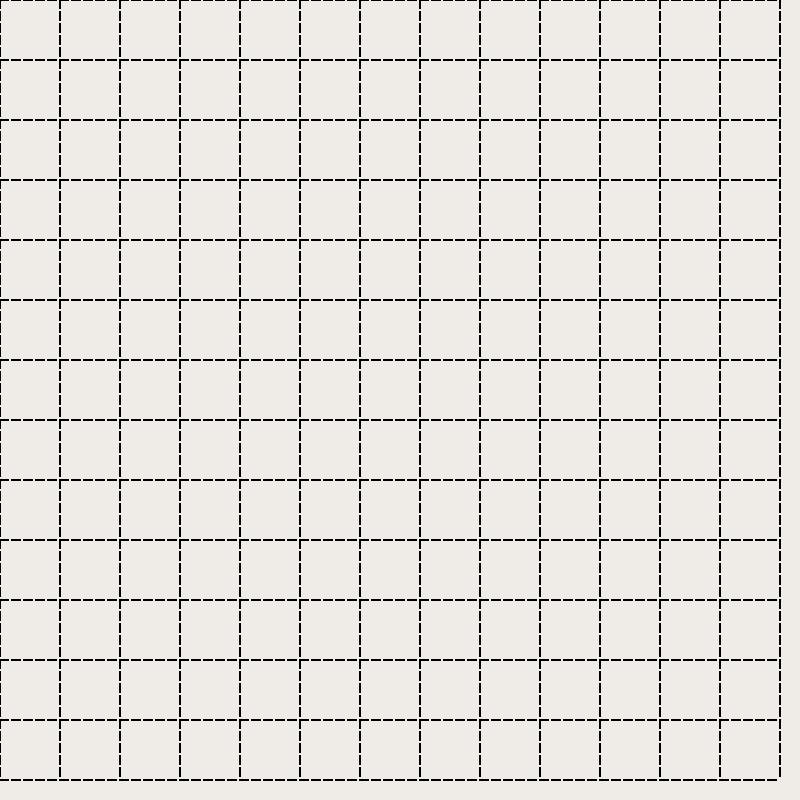
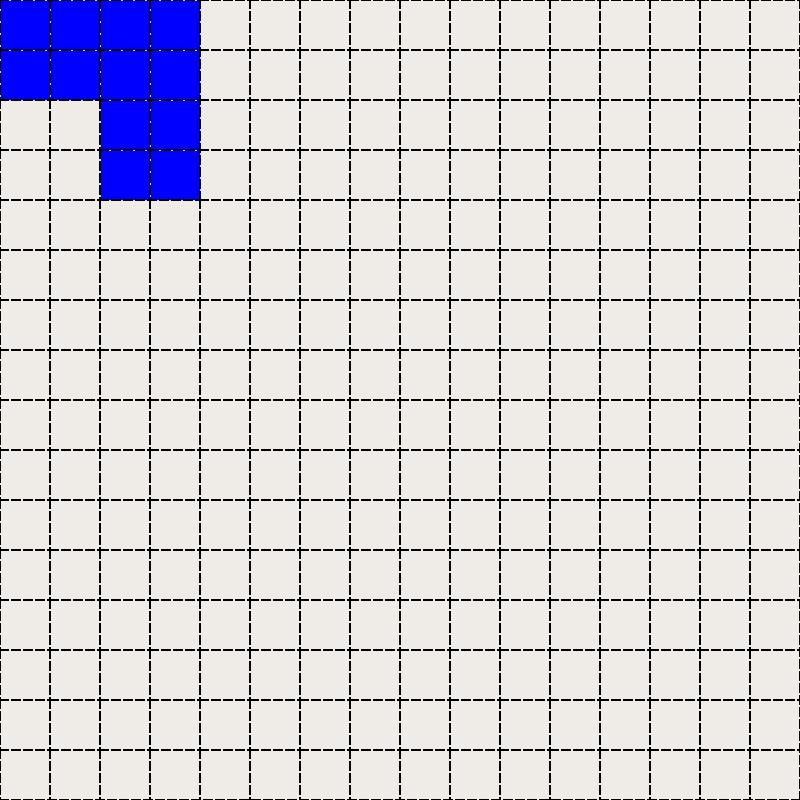
huge update

Changed region(s): [[0.0, 0.0, 1.0, 1.0]]

diff --git a/mapb.py b/mapb.py
@@ -9,25 +9,38 @@ sql=Connect("char.db")
 sql.CreateDb("(nomechar VARCHAR(100), nomepessoa VARCHAR(20),vida INT, loucura INT,str INT,int INT,sab INT,dex INT,perk INT, pb INT)","char")
 sql.CreateDb("(nomechar VARCHAR(100), habilidade VARCHAR(20),dhabilidade VARCHAR(2000),tipo VARCHAR(20))","habilidade")
 sql.CreateDb("(nomechar VARCHAR(100),item VARCHAR(20), dano VARCHAR(20),atributo VARCHAR(20),tipo VARCHAR(20),mod VARCHAR(20))","item")
-sql=Connect("mapa.db")
-sql.CreateDb("(nomeobj VARCHAR(100),i INT,j INT,x INT,y INT,cc INT,color VARCHAR(100))","obmapa")
+sql2=Connect("mapa.db")
+sql2.CreateDb("(mapa VARCHAR(100),nomeobj VARCHAR(100),i INT,j INT,x INT,y INT,cc INT,color VARCHAR(100))","obmapa")
+sql2.CreateDb("(mapa VARCHAR(100),x INT,y INT,w INT,a INT,n INT)","mapa")
 while True:
     try:
         global dist
         global cc
-        global color 
+        global color
+        global nmap
+        global p
         x.Response("getUpdates")
         x.Chat()
         print(x.text)
         if "/smap"  in x.cmd:
-            comands=x.cmd[1].split()
-            we=int(comands[0])
-            hei=int(comands[1])
-            dist=int(comands[2])
-
-            p=drawmap(0,0,we,hei,"mapa")
-            p.draw(int(we/dist),int(hei/dist),dist,0,0)
-
+            comands=x.Paramch(x.cmd[1])
+            for n in comands:
+                if n[0]=="map":
+                    nmap=n[1]
+                    sql2.Select("mapa","*","WHERE mapa IN ('{0}')".format(nmap))
+                    o=sql2.Fetchone()
+                    xi=o[1]
+                    yi=o[2]
+                    we=o[3]
+                    hei=o[4]
+                    dist=o[5]
+                    print(o)
+            try:
+                del p
+                p=drawmap(xi,yi,we,hei,nmap)
+            except:
+                
+                p=drawmap(xi,yi,we,hei,nmap)
         if "/ddraw" in x.cmd:    
             comands=x.cmd[1].split()
             i=int(comands[0])
@@ -35,27 +48,67 @@ while True:
             xi=int(comands[2])
             yi=int(comands[3])
             color=comands[4]
-            p.cleardraw(i,j,40,xi,yi,1,color)
+            p.cleardraw(i,j,dist,xi,yi,1,color)
 
-        if "/draw" in x.cmd:    
-            comands=x.cmd[1].split()
-            i=int(comands[0])
-            j=int(comands[1])
-            xi=int(comands[2])
-            yi=int(comands[3])
-            color=comands[4]
-            p.draw(i,j,dist ,xi,yi,1,color)
+        if "/draw" in x.cmd:
+            try:
+                comands=x.Paramch(x.cmd[1])
+            except IndexError:
+                comands=['map',nmap]
+            for n in comands:
+                if n[0]=="map":
+                    nmap=n[1]
+
+
+            sql2.Select("mapa","*","WHERE mapa in ('{0}')".format(nmap))
+            o=sql2.Fetchone()
+            xi=o[1]
+            yi=o[2]
+            we=o[3]
+            hei=o[4]
+            dist=o[5]
+            print(o)
+            try:
+                del p
+                p=drawmap(xi,yi,we,hei,nmap)
+            except:
+                p=drawmap(xi,yi,we,hei,nmap)
+            p.clearmap()
+
+            p.draw(int(we/dist),inhei/dist),dist,0,0)        
+            sql2.Select("obmapa","*","WHERE mapa in ('{0}')".format(nmap))
+            for n in sql2.Fetchall():
+                p.draw(n[2],n[3],dist ,n[4],n[5],1,n[7])
+            p.TSS("map")
+
+            x.Sendfile("map",x.cid)
         if "/tts" in x.cmd:
             comands=x.cmd[1].split()
             prin=comands[0]
             p.TSS(prin)
             x.Sendfile(prin,x.cid)
         if "/cmap" in x.cmd:
-            comands=x.cmd[1].split()
-            p.clearmap()
+            comands=x.Paramch(x.cmd[1])
+            xi=0
+            yi=0
+            dist=50
+            hei=800
+            we=800
+            for n in comands:
+                if n[0]=="we":
+                    we=n[1]
+                elif n[0]=="map":
+                    nmap=n[1]
+                elif n[0] == "hei":
+                    hei=n[1]
+                elif n[0]== "dist":
+                    dist=n[1]
 
+            mapf="('{0}',{1},{2},{3},{4},{5})".format(nmap,xi,yi,we,hei,dist)
+            sql2.Insert(mapf,"mapa")
+            
         if "/croll" in x.cmd:
-           
+
             x.cSendmsg("user: {0}".format(x.firstname))
             x.roll(x.cmd,2)
             x.cSendmsg("dados finais:{0}".format(x.dados2))
@@ -130,7 +183,7 @@ while True:
                     pb=int(n[1])
                 else:
                     x.Sendmsg("parametro falso:")
-                print(x.Sendmsg(n))
+                x.Sendmsg(n)
             charf="('{0}','{1}','{2}','{3}',{4},{5},{6},{7},{8},{9})".format(char,player,vida,loucura,strn,intn,sab,dex,perk,pb)
             sql.Insert(charf,"char")
         if "/pchar" in x.cmd:
@@ -142,8 +195,31 @@ while True:
             y.createsheet()
             x.Sendfile(x.cmd[0],x.cid)
 
+        if "/imapbj" in x.cmd:
+            cmmd=x.Paramch(x.cmd[1])
+            y=Ficha("mapa.db")
+            att=['map','nomeobj','i','j','x','y','color']
+            for n in cmmd:
+                if att[0] == n[0]:
+                    nmap=n[1]
+                elif att[1] == n[0]:
+                    nome=n[1]
+                elif att[2]==n[0]:
+                    i=n[1]
+                elif att[3]==n[0]:
+                    j=n[1]
+                elif att[4]==n[0]:
+                    xi=n[1]
+                elif att[5]==n[0]:
+                    yi=n[1]
+                elif att[6]==n[0]:
+                    color=n[1]
+                x.Sendmsg(n)
+                
+            charf="('{0}','{1}',{2},{3},{4},{5},1,'{6}')".format(nmap,nome,i,j,xi,yi,color)
+            sql2.Insert(charf,"obmapa")
         sql.close()
-        
+        sql2.close()
 
         x.Clean()
     except IndexError as e :
@@ -152,7 +228,7 @@ while True:
         exc_type, exc_obj, exc_tb = sys.exc_info()
         fname = os.path.split(exc_tb.tb_frame.f_code.co_filename)[1]
         print(exc_type, fname, exc_tb.tb_lineno)
-        
+
         x.Sendmsg(inst)           # __str__ allows args to printed directly
         x.Clean()
 

diff --git a/map.py b/map.py
@@ -15,8 +15,18 @@ class Map(QWidget):
         self.color=[]
         self.initUI(x,y,w,a,n)
    
+    def deletemap(self):
+        del self.i[:]
+        del self.j[:]
+        del self.n[:]
+        del self.x[:]
+        del self.y[:]
+        del self.c[:]
+        del self.color[:]
+    
     def deletedraw(self,i,j,n,x,y,cc,color):
         b=0
+        print("oi2")
         for k in self.i:
             if self.i[b]==i and self.j[b]==j and  self.n[b]==n and self.x[b]==x and self.y[b]==y and self.c[b]==cc and self.color[b]==color:
                 del self.i[b]
@@ -26,6 +36,7 @@ class Map(QWidget):
                 del self.y[b]
                 del self.c[b]
                 del self.color[b]
+                print("oi")
             b=b+1
     
     def changedraw(self,i,j,n,x,y,c,color):
@@ -72,8 +83,8 @@ class Map(QWidget):
         
         pen = QPen(Qt.black, 2, Qt.SolidLine)
             
-        for n in range (numbery):
-            for b in range(numberx):
+        for n in range (int(numbery)):
+            for b in range(int(numberx)):
                 if ct==1:
                     self.drawRectangles(qp,distance*(lminx+n),distance*(lminy+b),distance,distance,color)
                 pen.setStyle(Qt.DashLine)

diff --git a/test.py b/test.py
@@ -1,0 +1,13 @@
+# arch.python_theme
+
+import platform, sys
+os=platform.platform()
+vp= sys.version_info
+if 'arch' in  os and vp >=(2,6,0): 
+  print('Parabéns, você é foda')
+elif 'arch' in os:
+  print('Usa Python, galadx!')
+elif vp > (2,6,0):
+  print('Use Arch Linux!')
+else:
+  print('Use Arch e Python, obrigado.')

diff --git a/sql.py b/sql.py
@@ -34,6 +34,7 @@ class Connect():
         tab=self.tabself(tab)
         self.Select(db,tab,mod)
         self.rows=self.cursor.fetchall()
+        return self.rows
     def Printall(self,db="",tab="*",mod=""):
         db=self.dbself(db)
         mod=self.modself(mod)

diff --git a/drawmap.py b/drawmap.py
@@ -11,3 +11,5 @@ class drawmap():
         self.ex.take_screenshot(filename)
     def cleardraw(self,i,j,n,x,y,cc=1,color=""):
         self.ex.deletedraw(i,j,n,x,y,cc,color)
+    def clearmap(self):
+        self.ex.deletemap()
